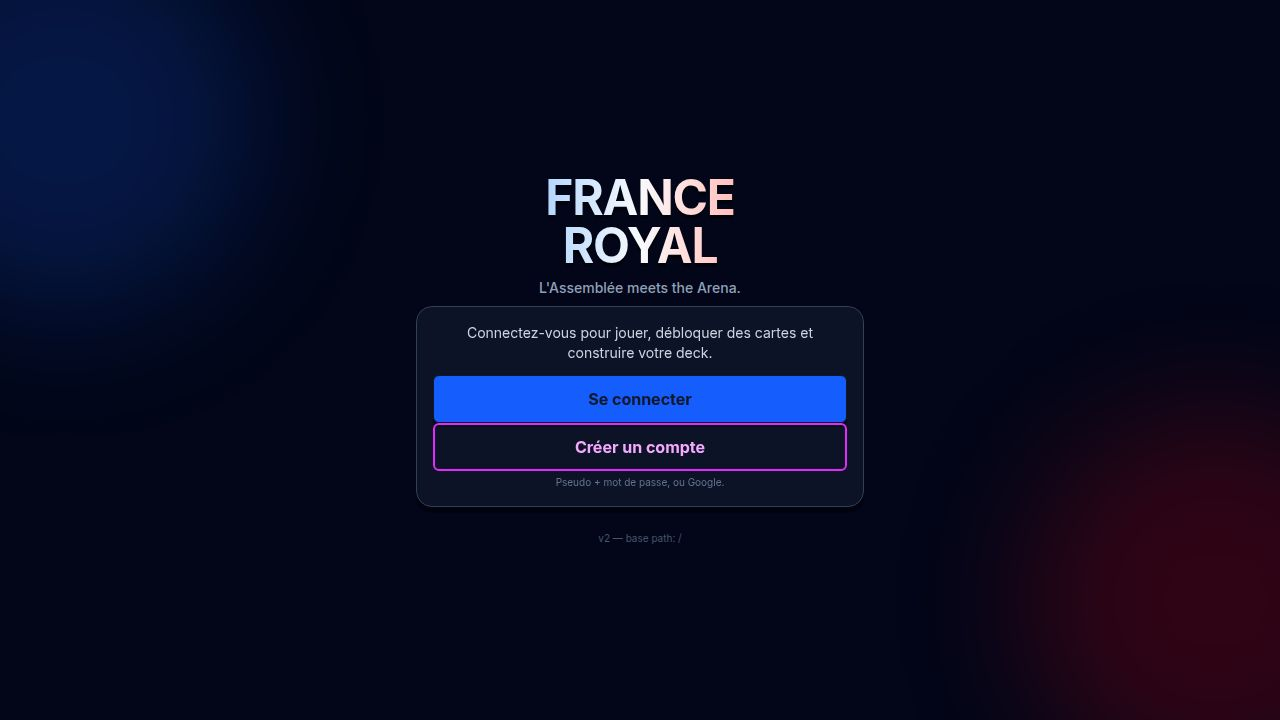
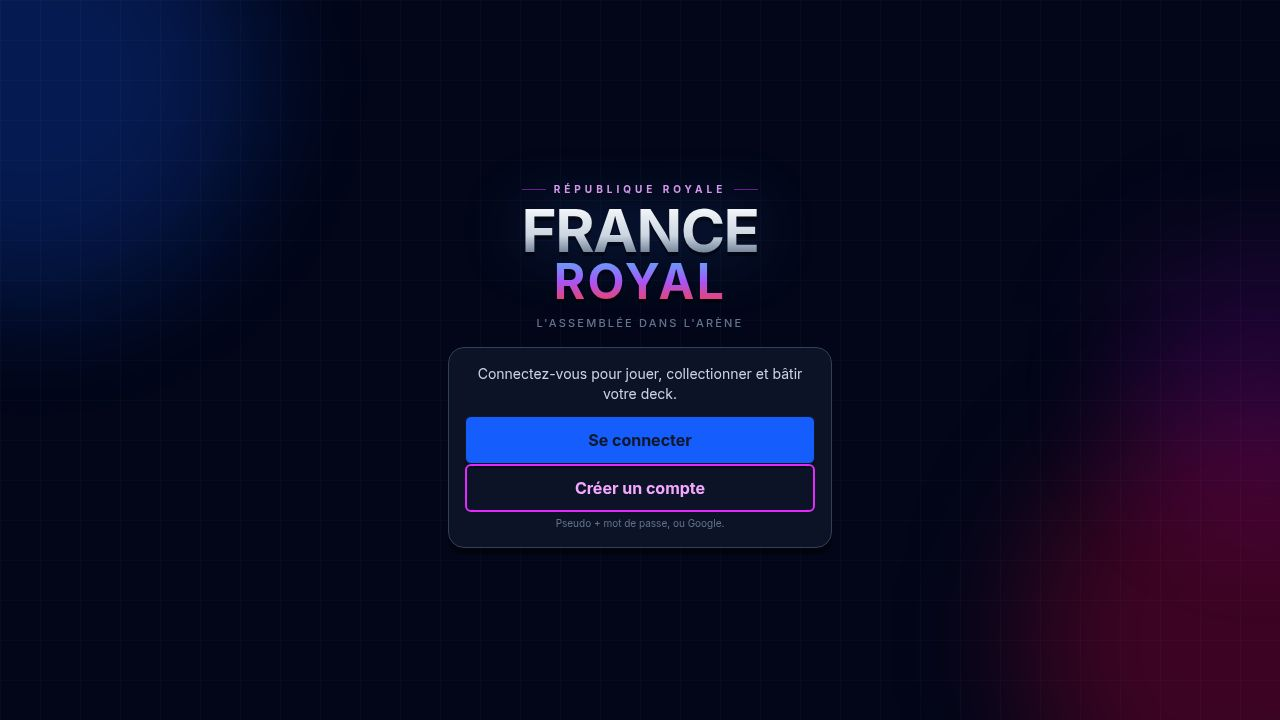
Add a game introduction and tutorial experience for new players
Adds a new splash screen route to the application, incorporating a multi-step tutorial and visual introduction to the game mechanics. It also implements routing logic to display the splash screen on first visit and adds a persistent button in the menu for revisiting the tutorial.

Replit-Commit-Author: Agent
Replit-Commit-Session-Id: 8ef0eb97-0a2e-496e-a3c7-585cfeb46a0c
Replit-Commit-Checkpoint-Type: full_checkpoint
Replit-Commit-Event-Id: e15ae2c9-1f17-4184-9243-da925eaf2e49
Replit-Commit-Screenshot-Url: https://storage.googleapis.com/screenshot-production-us-central1/1f9eacef-60df-4494-8176-7e0961fc982e/8ef0eb97-0a2e-496e-a3c7-585cfeb46a0c/Xz9A11c
Replit-Helium-Checkpoint-Created: true

Changed region(s): [[0.3125, 0.2444, 0.6875, 0.7639], [0.9062, 0.4278, 1.0, 0.7028]]

diff --git a/artifacts/france-royal/src/pages/Splash.tsx b/artifacts/france-royal/src/pages/Splash.tsx
@@ -1,0 +1,266 @@
+import { useEffect, useState } from "react";
+import { useLocation } from "wouter";
+import { Button } from "@/components/ui/button";
+import { Swords, Coins, Trophy, Layers, ChevronLeft, ChevronRight } from "lucide-react";
+
+export const SPLASH_SEEN_KEY = "france-royal-splash-seen";
+
+interface Step {
+  title: string;
+  body: React.ReactNode;
+  visual: React.ReactNode;
+}
+
+function TowerMini({ side }: { side: "mine" | "enemy" }) {
+  const accentMid = side === "mine" ? "#3b82f6" : "#ef4444";
+  const accentLight = side === "mine" ? "#93c5fd" : "#fca5a5";
+  return (
+    <div className="relative" style={{ width: 38, height: 56 }}>
+      <div className="absolute left-1/2 -translate-x-1/2 bottom-0" style={{ width: 44, height: 12, borderRadius: 6, background: "linear-gradient(to bottom, #f5f5f4, #57534e)", border: "2px solid rgba(0,0,0,0.55)" }} />
+      <div className="absolute left-1/2 -translate-x-1/2 overflow-hidden" style={{ bottom: 8, width: 34, height: 36, borderRadius: "5px 5px 3px 3px", background: "linear-gradient(to right, #57534e, #f5f5f4, #57534e)", border: "2px solid rgba(0,0,0,0.55)" }}>
+        <div className="absolute left-1/2 -translate-x-1/2" style={{ top: 6, width: 14, height: 16, background: `linear-gradient(to bottom, ${accentLight}, ${accentMid})`, clipPath: "polygon(0 0, 100% 0, 100% 85%, 50% 100%, 0 85%)" }} />
+      </div>
+      <div className="absolute left-1/2 -translate-x-1/2 flex justify-between" style={{ bottom: 42, width: 32, height: 6 }}>
+        {[0, 1, 2, 3].map((i) => (
+          <div key={i} style={{ width: 6, height: 6, background: "linear-gradient(to bottom, #f5f5f4, #a8a29e)", border: "1px solid rgba(0,0,0,0.55)", borderRadius: "1px 1px 0 0" }} />
+        ))}
+      </div>
+    </div>
+  );
+}
+
+function UnitMini({ side }: { side: "mine" | "enemy" }) {
+  const mid = side === "mine" ? "#3b82f6" : "#ef4444";
+  const light = side === "mine" ? "#93c5fd" : "#fca5a5";
+  return (
+    <div className="relative" style={{ width: 28, height: 40 }}>
+      <div className="absolute left-1/2 -translate-x-1/2 bottom-0" style={{ width: 26, height: 8, borderRadius: "50%", background: `radial-gradient(ellipse at center, ${light}, rgba(0,0,0,0.4))` }} />
+      <div className="absolute left-1/2 -translate-x-1/2" style={{ bottom: 4, width: 20, height: 28, borderRadius: "45% 45% 38% 38% / 55% 55% 22% 22%", background: `linear-gradient(to bottom, ${light}, ${mid}, #1e3a8a)`, border: "1.5px solid rgba(0,0,0,0.55)", boxShadow: "inset 0 2px 0 rgba(255,255,255,0.35), inset 0 -2px 4px rgba(0,0,0,0.5)" }} />
+    </div>
+  );
+}
+
+function CardMini({ cost, color }: { cost: number; color: string }) {
+  return (
+    <div className="relative rounded-md border-2 border-black/60 shadow-[0_3px_0_rgba(0,0,0,0.5)]" style={{ width: 40, height: 52, background: `linear-gradient(to bottom, ${color}, #0f172a)` }}>
+      <div className="absolute -top-1 -left-1 w-5 h-5 rounded-full bg-fuchsia-600 border-2 border-white text-white text-[10px] font-black flex items-center justify-center shadow-md">{cost}</div>
+    </div>
+  );
+}
+
+export default function Splash() {
+  const [, setLocation] = useLocation();
+  const [step, setStep] = useState(0);
+
+  const steps: Step[] = [
+    {
+      title: "Bienvenue dans l'arène",
+      body: (
+        <>
+          <p>France Royal, c'est <span className="font-bold text-fuchsia-300">l'Assemblée dans l'arène</span> : tes personnalités politiques préférées s'affrontent en duel sur deux voies.</p>
+          <p className="text-slate-400 text-xs">Solo contre l'IA, ou multijoueur 1v1 en ligne. Parties courtes, deck de 4 cartes, victoire en détruisant la tour royale adverse.</p>
+        </>
+      ),
+      visual: (
+        <div className="flex items-end justify-center gap-6 pt-4">
+          <TowerMini side="mine" />
+          <div className="flex gap-2 pb-3"><UnitMini side="mine" /><UnitMini side="enemy" /></div>
+          <TowerMini side="enemy" />
+        </div>
+      ),
+    },
+    {
+      title: "L'élixir et les cartes",
+      body: (
+        <>
+          <p>Ta réserve d'<span className="font-bold text-fuchsia-300">élixir</span> remonte toute seule (max 10). Chaque carte coûte un certain nombre d'élixirs pour être jouée.</p>
+          <p className="text-slate-400 text-xs">Touche une carte de ta main, puis touche l'arène pour faire apparaître ton unité. Gère ton élixir : trop dépenser, c'est ouvrir la porte à l'adversaire.</p>
+        </>
+      ),
+      visual: (
+        <div className="flex flex-col items-center gap-3 pt-4">
+          <div className="flex gap-2">
+            <CardMini cost={3} color="#3b82f6" />
+            <CardMini cost={5} color="#a855f7" />
+            <CardMini cost={2} color="#10b981" />
+            <CardMini cost={7} color="#ef4444" />
+          </div>
+          <div className="w-44 h-3 rounded-full bg-black/60 border border-fuchsia-900/60 overflow-hidden">
+            <div className="h-full bg-gradient-to-r from-fuchsia-500 to-purple-600" style={{ width: "70%" }} />
+          </div>
+          <div className="text-[10px] text-fuchsia-300 font-bold tracking-widest uppercase">Élixir 7 / 10</div>
+        </div>
+      ),
+    },
+    {
+      title: "Tours et voies",
+      body: (
+        <>
+          <p>Chaque camp défend <span className="font-bold text-fuchsia-300">3 tours</span> : deux princesses (gauche/droite) et une tour du roi au centre.</p>
+          <p className="text-slate-400 text-xs">Les unités traversent par les <span className="font-bold">deux ponts</span>. Les tours tirent sur les ennemis à portée. Détruire une princesse débloque l'attaque sur la tour du roi de ce côté.</p>
+        </>
+      ),
+      visual: (
+        <div className="flex items-end justify-center gap-3 pt-4">
+          <TowerMini side="enemy" />
+          <TowerMini side="enemy" />
+          <TowerMini side="enemy" />
+        </div>
+      ),
+    },
+    {
+      title: "Victoire et récompenses",
+      body: (
+        <>
+          <p>La partie se termine quand une <span className="font-bold text-fuchsia-300">tour du roi tombe</span> — ou quand le temps imparti est écoulé (le camp avec le plus de tours détruites gagne).</p>
+          <p className="text-slate-400 text-xs">Chaque match rapporte <span className="text-amber-300 font-bold">or</span> et <span className="text-emerald-300 font-bold">XP</span>. Gagner débloque parfois une nouvelle carte aléatoire jusqu'à compléter la collection.</p>
+        </>
+      ),
+      visual: (
+        <div className="flex items-center justify-center gap-4 pt-4">
+          <div className="flex flex-col items-center gap-1">
+            <div className="w-12 h-12 rounded-full bg-amber-500/20 border-2 border-amber-400 flex items-center justify-center shadow-[0_4px_0_rgba(0,0,0,0.4)]"><Coins className="w-6 h-6 text-amber-300" /></div>
+            <div className="text-[10px] text-amber-300 font-black">+12 OR</div>
+          </div>
+          <div className="flex flex-col items-center gap-1">
+            <div className="w-12 h-12 rounded-full bg-emerald-500/20 border-2 border-emerald-400 flex items-center justify-center shadow-[0_4px_0_rgba(0,0,0,0.4)]"><Trophy className="w-6 h-6 text-emerald-300" /></div>
+            <div className="text-[10px] text-emerald-300 font-black">+25 XP</div>
+          </div>
+          <div className="flex flex-col items-center gap-1">
+            <div className="w-12 h-12 rounded-full bg-fuchsia-500/20 border-2 border-fuchsia-400 flex items-center justify-center shadow-[0_4px_0_rgba(0,0,0,0.4)]"><Layers className="w-6 h-6 text-fuchsia-300" /></div>
+            <div className="text-[10px] text-fuchsia-300 font-black">CARTE !</div>
+          </div>
+        </div>
+      ),
+    },
+  ];
+
+  const isHero = step === 0;
+
+  const dismiss = () => {
+    try { localStorage.setItem(SPLASH_SEEN_KEY, "1"); } catch { /* ignore */ }
+    setLocation("/");
+  };
+
+  const next = () => {
+    if (step < steps.length - 1) setStep(step + 1);
+    else dismiss();
+  };
+  const prev = () => { if (step > 0) setStep(step - 1); };
+
+  // Keyboard navigation
+  useEffect(() => {
+    const onKey = (e: KeyboardEvent) => {
+      if (e.key === "ArrowRight" || e.key === "Enter") next();
+      else if (e.key === "ArrowLeft") prev();
+      else if (e.key === "Escape") dismiss();
+    };
+    window.addEventListener("keydown", onKey);
+    return () => window.removeEventListener("keydown", onKey);
+    // eslint-disable-next-line react-hooks/exhaustive-deps
+  }, [step]);
+
+  return (
+    <div className="min-h-screen w-full flex flex-col items-center justify-center bg-slate-950 text-slate-50 relative overflow-hidden p-4">
+      {/* Ambient gradient blobs */}
+      <div className="absolute top-[-20%] left-[-15%] w-[28rem] h-[28rem] bg-blue-600/30 rounded-full blur-3xl pointer-events-none animate-pulse" style={{ animationDuration: "8s" }} />
+      <div className="absolute bottom-[-20%] right-[-15%] w-[28rem] h-[28rem] bg-rose-600/30 rounded-full blur-3xl pointer-events-none animate-pulse" style={{ animationDuration: "10s", animationDelay: "1s" }} />
+      <div className="absolute top-1/3 right-[-10%] w-72 h-72 bg-fuchsia-600/20 rounded-full blur-3xl pointer-events-none animate-pulse" style={{ animationDuration: "12s" }} />
+      <div className="absolute inset-0 opacity-[0.05] pointer-events-none" style={{ backgroundImage: "linear-gradient(rgba(255,255,255,0.6) 1px, transparent 1px), linear-gradient(90deg, rgba(255,255,255,0.6) 1px, transparent 1px)", backgroundSize: "40px 40px" }} />
+
+      <div className="relative z-10 w-full max-w-sm flex flex-col items-center gap-4">
+        {/* HERO */}
+        <div className="text-center select-none">
+          <div className="inline-flex items-center gap-2 text-[10px] font-black uppercase tracking-[0.4em] text-fuchsia-300/90 mb-2">
+            <span className="h-px w-6 bg-fuchsia-500/50" />République Royale<span className="h-px w-6 bg-fuchsia-500/50" />
+          </div>
+          <h1 className="text-6xl sm:text-7xl font-black tracking-tight leading-[0.85]" style={{
+            background: "linear-gradient(180deg, #f8fafc 0%, #cbd5e1 60%, #64748b 100%)",
+            WebkitBackgroundClip: "text", WebkitTextFillColor: "transparent",
+            filter: "drop-shadow(0 4px 0 rgba(0,0,0,0.45)) drop-shadow(0 0 30px rgba(59,130,246,0.4))",
+          }}>FRANCE</h1>
+          <h1 className="text-5xl sm:text-6xl font-black tracking-[0.05em] leading-[0.9] mt-1" style={{
+            background: "linear-gradient(180deg, #60a5fa 0%, #a855f7 50%, #f43f5e 100%)",
+            WebkitBackgroundClip: "text", WebkitTextFillColor: "transparent",
+            filter: "drop-shadow(0 4px 0 rgba(0,0,0,0.4))",
+          }}>ROYAL</h1>
+          {isHero && (
+            <p className="text-[11px] text-slate-500 font-medium mt-3 tracking-[0.2em] uppercase">L'Assemblée dans l'arène</p>
+          )}
+        </div>
+
+        {/* Card panel */}
+        <div className="w-full bg-slate-900/85 backdrop-blur rounded-2xl border border-slate-700 p-5 shadow-[0_6px_0_rgba(0,0,0,0.4)] space-y-3">
+          {isHero ? (
+            <>
+              {/* Animated mini-scene */}
+              <div className="flex items-end justify-center gap-4 py-2">
+                <TowerMini side="mine" />
+                <div className="flex items-end gap-2 pb-2">
+                  <UnitMini side="mine" />
+                  <UnitMini side="enemy" />
+                </div>
+                <TowerMini side="enemy" />
+              </div>
+              <p className="text-sm text-slate-300 text-center leading-relaxed">
+                Plonge dans <span className="font-bold text-white">l'arène politique</span> : pose tes cartes, gère ton élixir, et fais tomber la tour royale adverse.
+              </p>
+              <Button
+                onClick={() => setStep(1)}
+                className="w-full h-12 text-base font-black uppercase tracking-wide bg-gradient-to-r from-blue-600 to-blue-700 hover:from-blue-500 hover:to-blue-600 shadow-[0_4px_0_rgba(0,0,0,0.4),0_0_24px_rgba(59,130,246,0.35)] active:translate-y-[2px] active:shadow-[0_2px_0_rgba(0,0,0,0.4)] border border-blue-400/30"
+                data-testid="button-start-tutorial"
+              >
+                <Swords className="w-5 h-5 mr-2" />
+                Voir le tutoriel
+              </Button>
+              <button
+                onClick={dismiss}
+                className="w-full text-xs text-slate-400 hover:text-slate-200 font-bold uppercase tracking-widest pt-1"
+                data-testid="button-skip-tutorial"
+              >
+                Passer
+              </button>
+            </>
+          ) : (
+            <>
+              <div className="text-center">
+                <div className="text-[10px] text-fuchsia-300/80 font-black uppercase tracking-[0.3em] mb-1">Étape {step} / {steps.length - 1}</div>
+                <h2 className="text-xl font-black text-white">{steps[step].title}</h2>
+              </div>
+              <div className="rounded-xl bg-slate-950/60 border border-slate-700/60 p-3 min-h-[100px]">
+                {steps[step].visual}
+              </div>
+              <div className="text-sm text-slate-200 space-y-2 leading-relaxed">
+                {steps[step].body}
+              </div>
+              <div className="flex items-center justify-between gap-2 pt-1">
+                <Button
+                  onClick={prev}
+                  disabled={step <= 1}
+                  variant="outline"
+                  className="h-11 px-3 text-xs font-bold border-slate-600 bg-slate-900/60 text-slate-200 hover:bg-slate-800 disabled:opacity-30"
+                  data-testid="button-tutorial-prev"
+                >
+                  <ChevronLeft className="w-4 h-4" />
+                </Button>
+                <div className="flex gap-1.5">
+                  {steps.slice(1).map((_, i) => (
+                    <div key={i} className={`h-1.5 rounded-full transition-all ${i + 1 === step ? "w-6 bg-fuchsia-400" : "w-1.5 bg-slate-600"}`} />
+                  ))}
+                </div>
+                <Button
+                  onClick={next}
+                  className="h-11 px-4 text-sm font-black uppercase bg-gradient-to-r from-fuchsia-600 to-purple-700 hover:from-fuchsia-500 hover:to-purple-600 shadow-[0_4px_0_rgba(0,0,0,0.4)] active:translate-y-[2px] active:shadow-[0_2px_0_rgba(0,0,0,0.4)] text-white"
+                  data-testid="button-tutorial-next"
+                >
+                  {step === steps.length - 1 ? "Jouer" : "Suivant"}
+                  <ChevronRight className="w-4 h-4 ml-1" />
+                </Button>
+              </div>
+            </>
+          )}
+        </div>
+      </div>
+    </div>
+  );
+}

diff --git a/artifacts/france-royal/src/pages/Menu.tsx b/artifacts/france-royal/src/pages/Menu.tsx
@@ -1,11 +1,13 @@
-import { Link } from "wouter";
+import { useEffect } from "react";
+import { Link, useLocation } from "wouter";
 import { Show } from "@clerk/react";
 import { Button } from "@/components/ui/button";
 import { useMe, getSelectedDeck } from "../hooks/useMe";
 import CardTile from "../components/CardTile";
 import { getArenaForLevel, getNextArena } from "../game/arenas";
 import LogoutButton from "../components/LogoutButton";
-import { Swords, Globe2, Library, Layers, Coins, Trophy } from "lucide-react";
+import { SPLASH_SEEN_KEY } from "./Splash";
+import { Swords, Globe2, Library, Layers, Coins, Trophy, HelpCircle } from "lucide-react";
 
 function UserBar() {
   const { data: me } = useMe();
@@ -121,6 +123,12 @@ function DeckPreview() {
 }
 
 export default function Menu() {
+  const [, setLocation] = useLocation();
+  useEffect(() => {
+    try {
+      if (!localStorage.getItem(SPLASH_SEEN_KEY)) setLocation("/splash");
+    } catch { /* ignore */ }
+  }, [setLocation]);
   return (
     <div className="min-h-screen w-full flex flex-col items-center justify-center bg-slate-950 text-slate-50 relative overflow-hidden p-4">
       {/* Ambient background — three blobs and a subtle grid for depth */}
@@ -236,6 +244,16 @@ export default function Menu() {
                 </Button>
               </Link>
             </div>
+            <Link href="/splash">
+              <Button
+                variant="ghost"
+                className="w-full h-9 text-[11px] font-bold uppercase tracking-widest text-slate-500 hover:text-slate-200 hover:bg-slate-900/60"
+                data-testid="button-tutorial"
+              >
+                <HelpCircle className="w-3.5 h-3.5 mr-1.5" />
+                Revoir le tutoriel
+              </Button>
+            </Link>
           </div>
         </Show>
       </div>

diff --git a/artifacts/france-royal/src/App.tsx b/artifacts/france-royal/src/App.tsx
@@ -18,6 +18,7 @@ import Collection from "./pages/Collection";
 import DeckEditor from "./pages/DeckEditor";
 import Admin from "./pages/Admin";
 import UsernameSetup from "./pages/UsernameSetup";
+import Splash from "./pages/Splash";
 import { useMe } from "./hooks/useMe";
 
 const clerkPubKey = publishableKeyFromHost(
@@ -195,6 +196,7 @@ function ClerkRouter() {
               <Show when="signed-out"><Redirect to="/sign-in" /></Show>
             </Route>
             <Route path="/admin"       component={Admin} />
+            <Route path="/splash"      component={Splash} />
             <Route component={NotFound} />
           </Switch>
           <Toaster />
